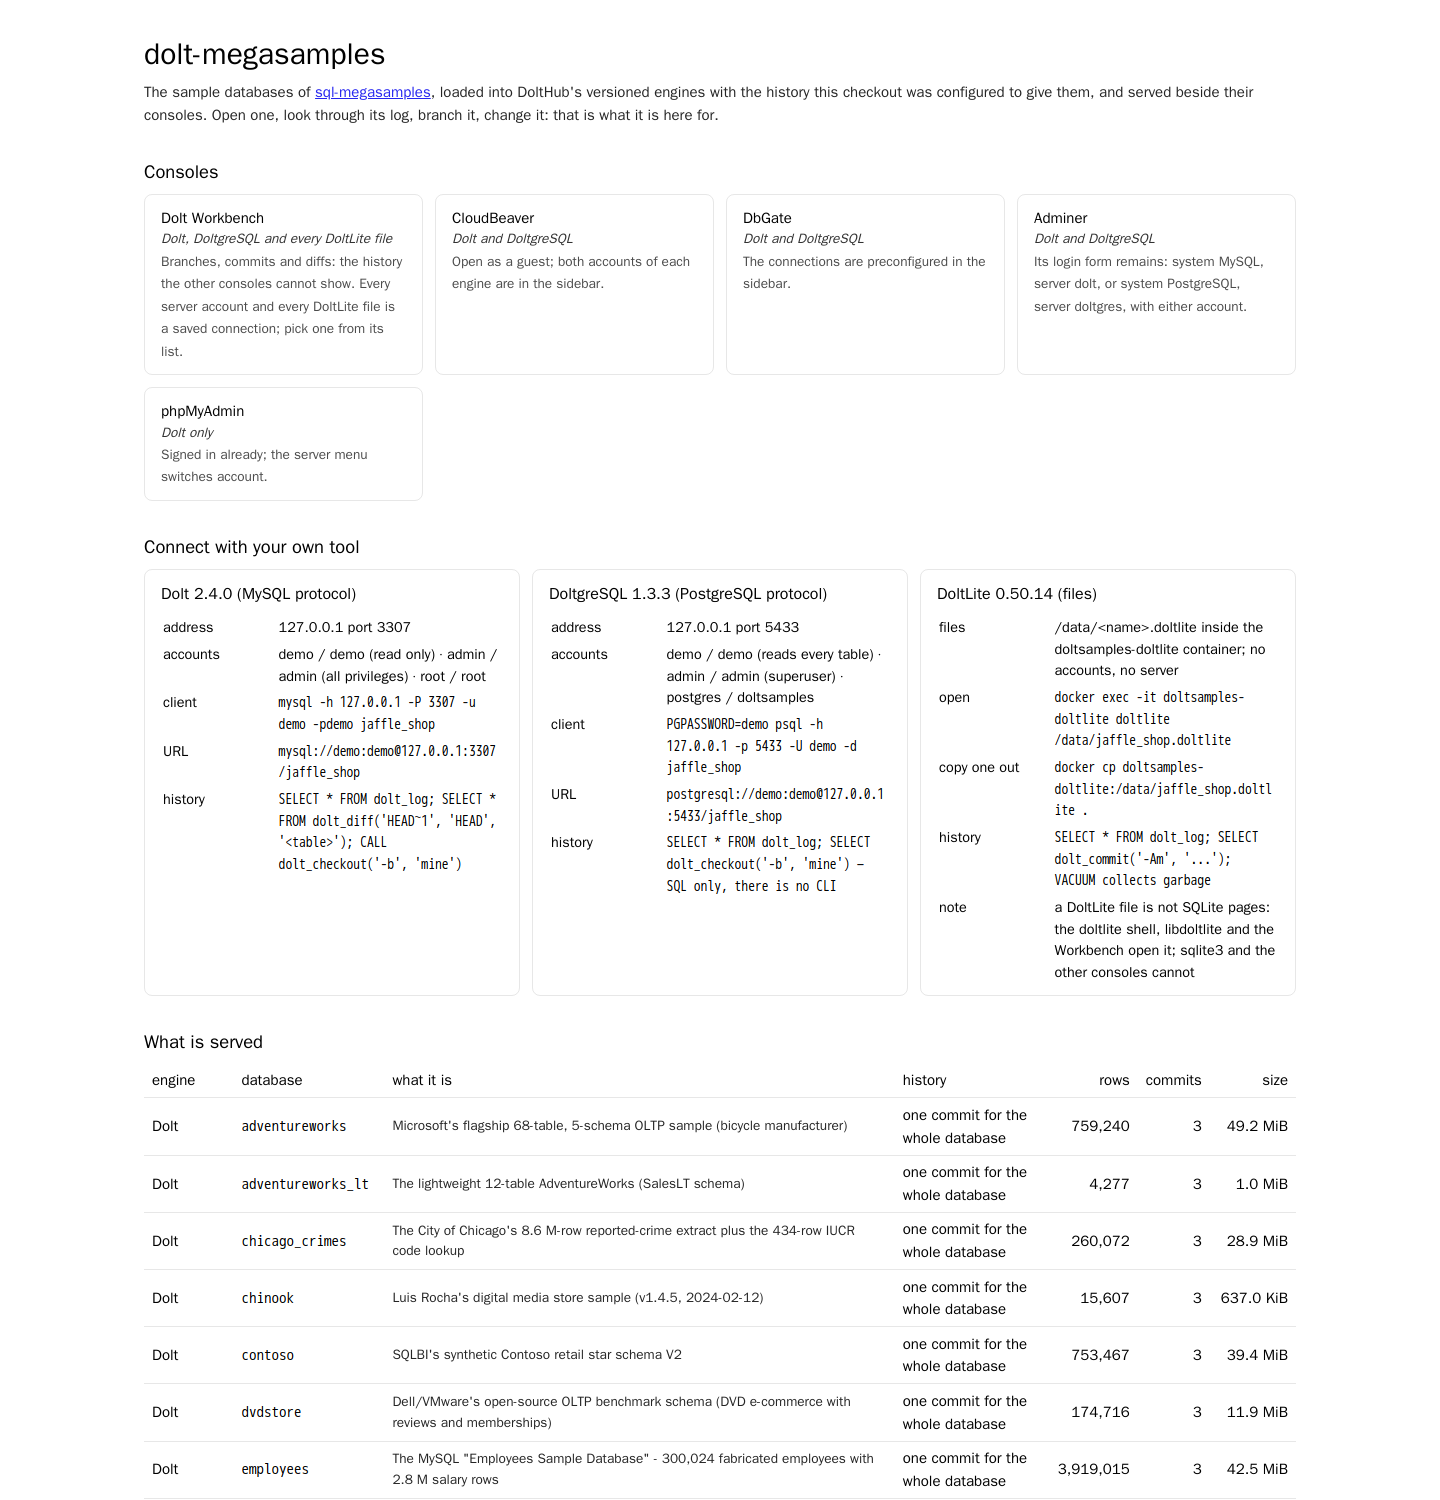
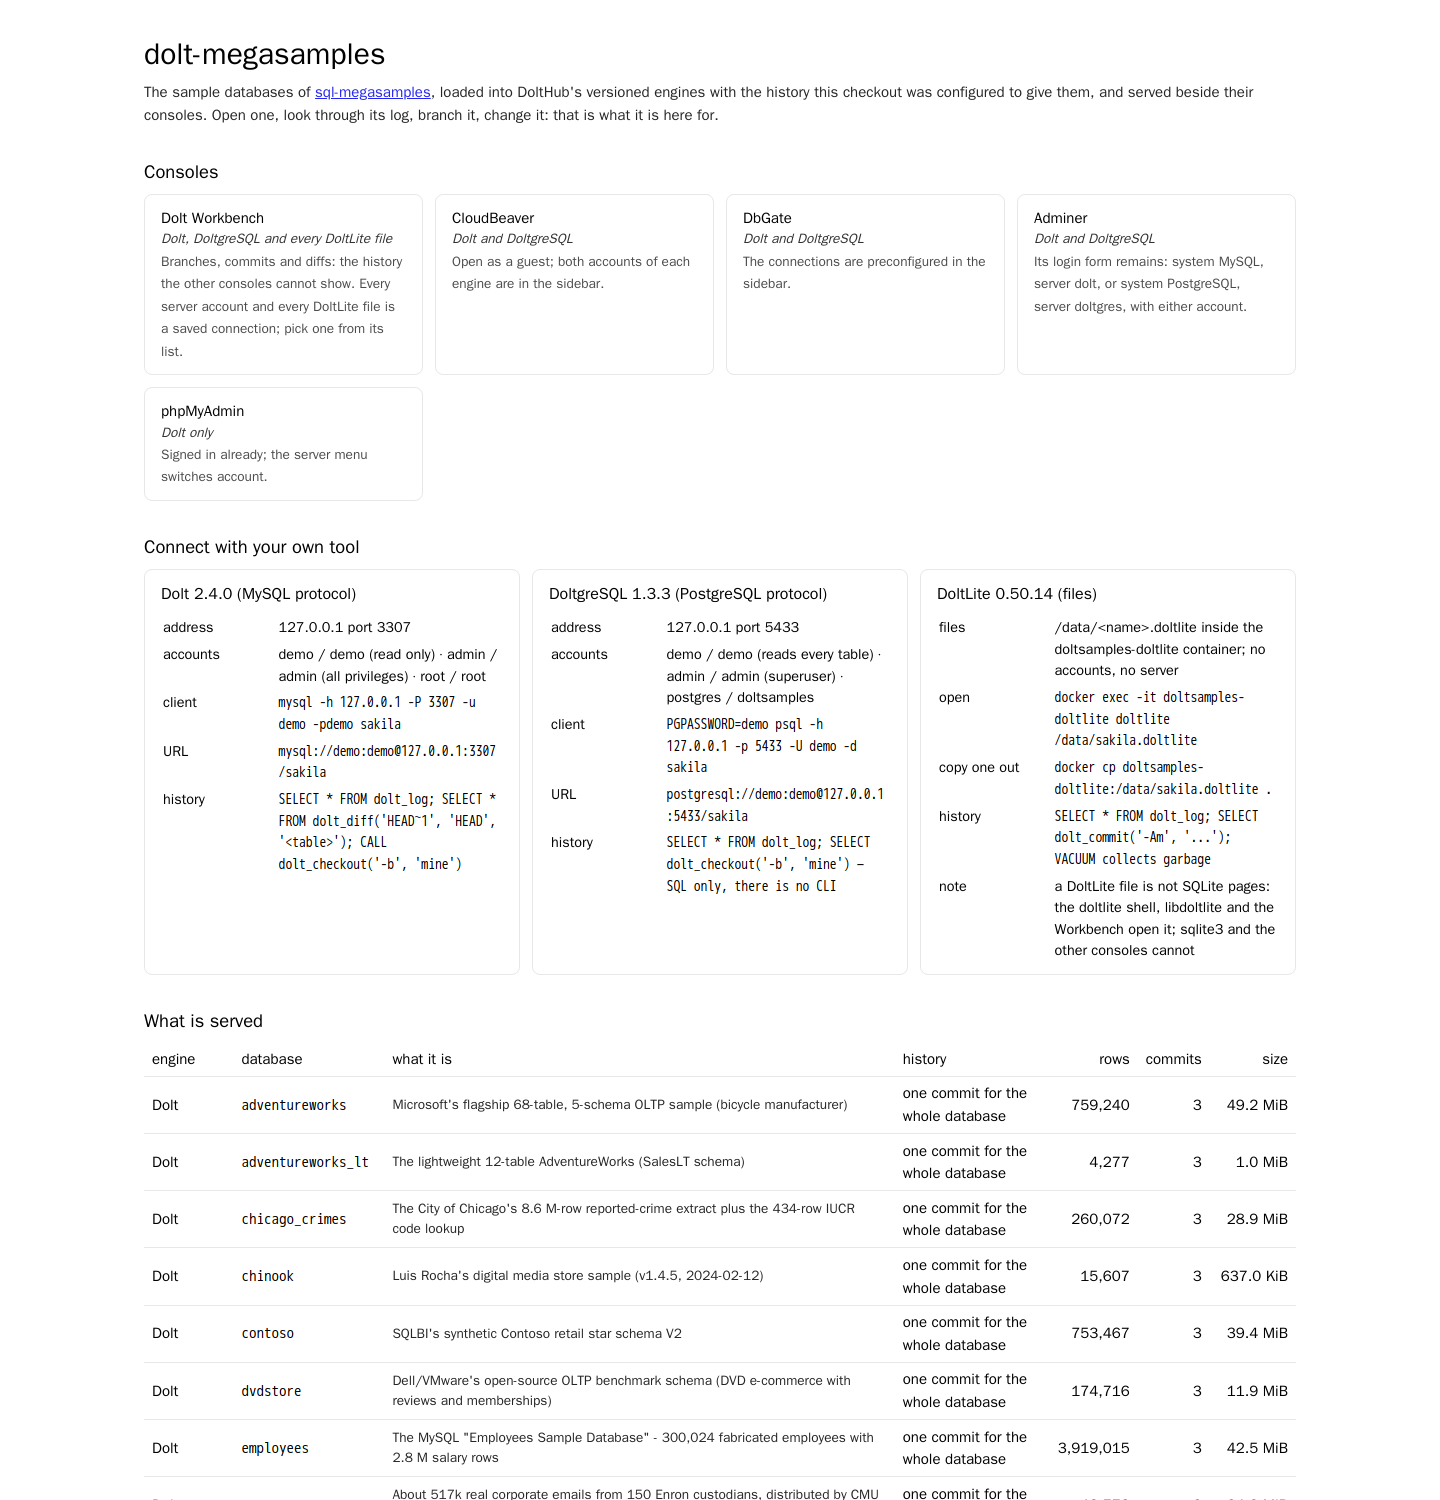
Connections and examples open sakila when it is served, as the README's do

diff --git a/doltsamples/stack.py b/doltsamples/stack.py
@@ -74,6 +74,12 @@ def settings():
 
 
 # ---------------------------------------------------------------------------- what is served ---
+def preferred(stores):
+    """The store a connection opens by default: sakila when it is served (the example everyone knows,
+    and the README's), else the first."""
+    return next((s for s in stores if s["name"] == "sakila"), stores[0])["name"] if stores else ""
+
+
 def served(cfg):
     """{engine: [{name, database, history, path, ...record}]} for every wanted store that is built,
     and [(engine, history, db, why)] for those that are not."""
@@ -157,7 +163,6 @@ def compose(cfg, stores, pw):
             "volumes": ["./data/serve/doltlite:/data"]
                        + [f"./{rel(s['path'])}:/data/{s['name']}.doltlite" for s in stores["doltlite"]],
             "restart": "unless-stopped"}
-    first = lambda e: (stores[e][0]["name"] if stores[e] else "")
     if "landing" in consoles:
         svc["console"] = {"image": IMAGES["landing"], "container_name": CONTAINERS["landing"], "mem_limit": "32m",
                           "ports": [f"127.0.0.1:{P['landing']}:80"],
@@ -222,11 +227,11 @@ def workbench_store(stores, pw):
     demo, admin = quote(pw["demo"], safe=""), quote(pw["admin"], safe="")
     out = []
     if stores["dolt"]:
-        db = stores["dolt"][0]["name"]
+        db = preferred(stores["dolt"])
         out += [{"name": "Dolt (read-only)", "connectionUrl": f"mysql://demo:{demo}@dolt:3306/{db}", "type": "mysql"},
                 {"name": "Dolt (full access)", "connectionUrl": f"mysql://admin:{admin}@dolt:3306/{db}", "type": "mysql"}]
     if stores["doltgres"]:
-        db = stores["doltgres"][0]["name"]
+        db = preferred(stores["doltgres"])
         out += [{"name": "DoltgreSQL (read-only)", "connectionUrl": f"postgresql://demo:{demo}@doltgres:5432/{db}", "type": "postgres"},
                 {"name": "DoltgreSQL (full access)", "connectionUrl": f"postgresql://admin:{admin}@doltgres:5432/{db}", "type": "postgres"}]
     out += [{"name": f"DoltLite {s['name']}", "connectionUrl": f"file:///data/doltlite/{s['name']}.doltlite", "type": "sqlite"}
@@ -245,7 +250,7 @@ def cloudbeaver_sources(stores):
         engine = "dolt" if conn["configuration"]["host"] == "dolt" else "doltgres"
         if not stores[engine]:
             continue
-        db = stores[engine][0]["name"]
+        db = preferred(stores[engine])
         c = conn["configuration"]
         c["database"] = db
         c["url"] = c["url"].rsplit("/", 1)[0] + "/" + db

diff --git a/doltsamples/landing.py b/doltsamples/landing.py
@@ -4,7 +4,7 @@ consoles. Written by `make up` from build/serve.json into docker/console/index.h
 import html, json, os
 
 from doltsamples.config import HISTORY_LABEL
-from doltsamples.stack import CONTAINERS, PASSWORDS, SERVE
+from doltsamples.stack import CONTAINERS, PASSWORDS, SERVE, preferred
 from doltsamples.util import ROOT, human, load_json, versions
 
 OUT = os.path.join(ROOT, "docker", "console", "index.html")
@@ -29,7 +29,7 @@ def write():
     shown = {k: (v if v == PASSWORDS[k][1] else f"${PASSWORDS[k][0]}") for k, v in pw.items()}
     v = versions()
     catalogue = load_json(CATALOGUE, {}) or {}
-    first = {e: (engines.get(e) or [{}])[0].get("name", "sakila") for e in ("dolt", "doltgres", "doltlite")}
+    first = {e: preferred(engines.get(e) or []) or "sakila" for e in ("dolt", "doltgres", "doltlite")}
 
     connect = []
     if engines.get("dolt"):
